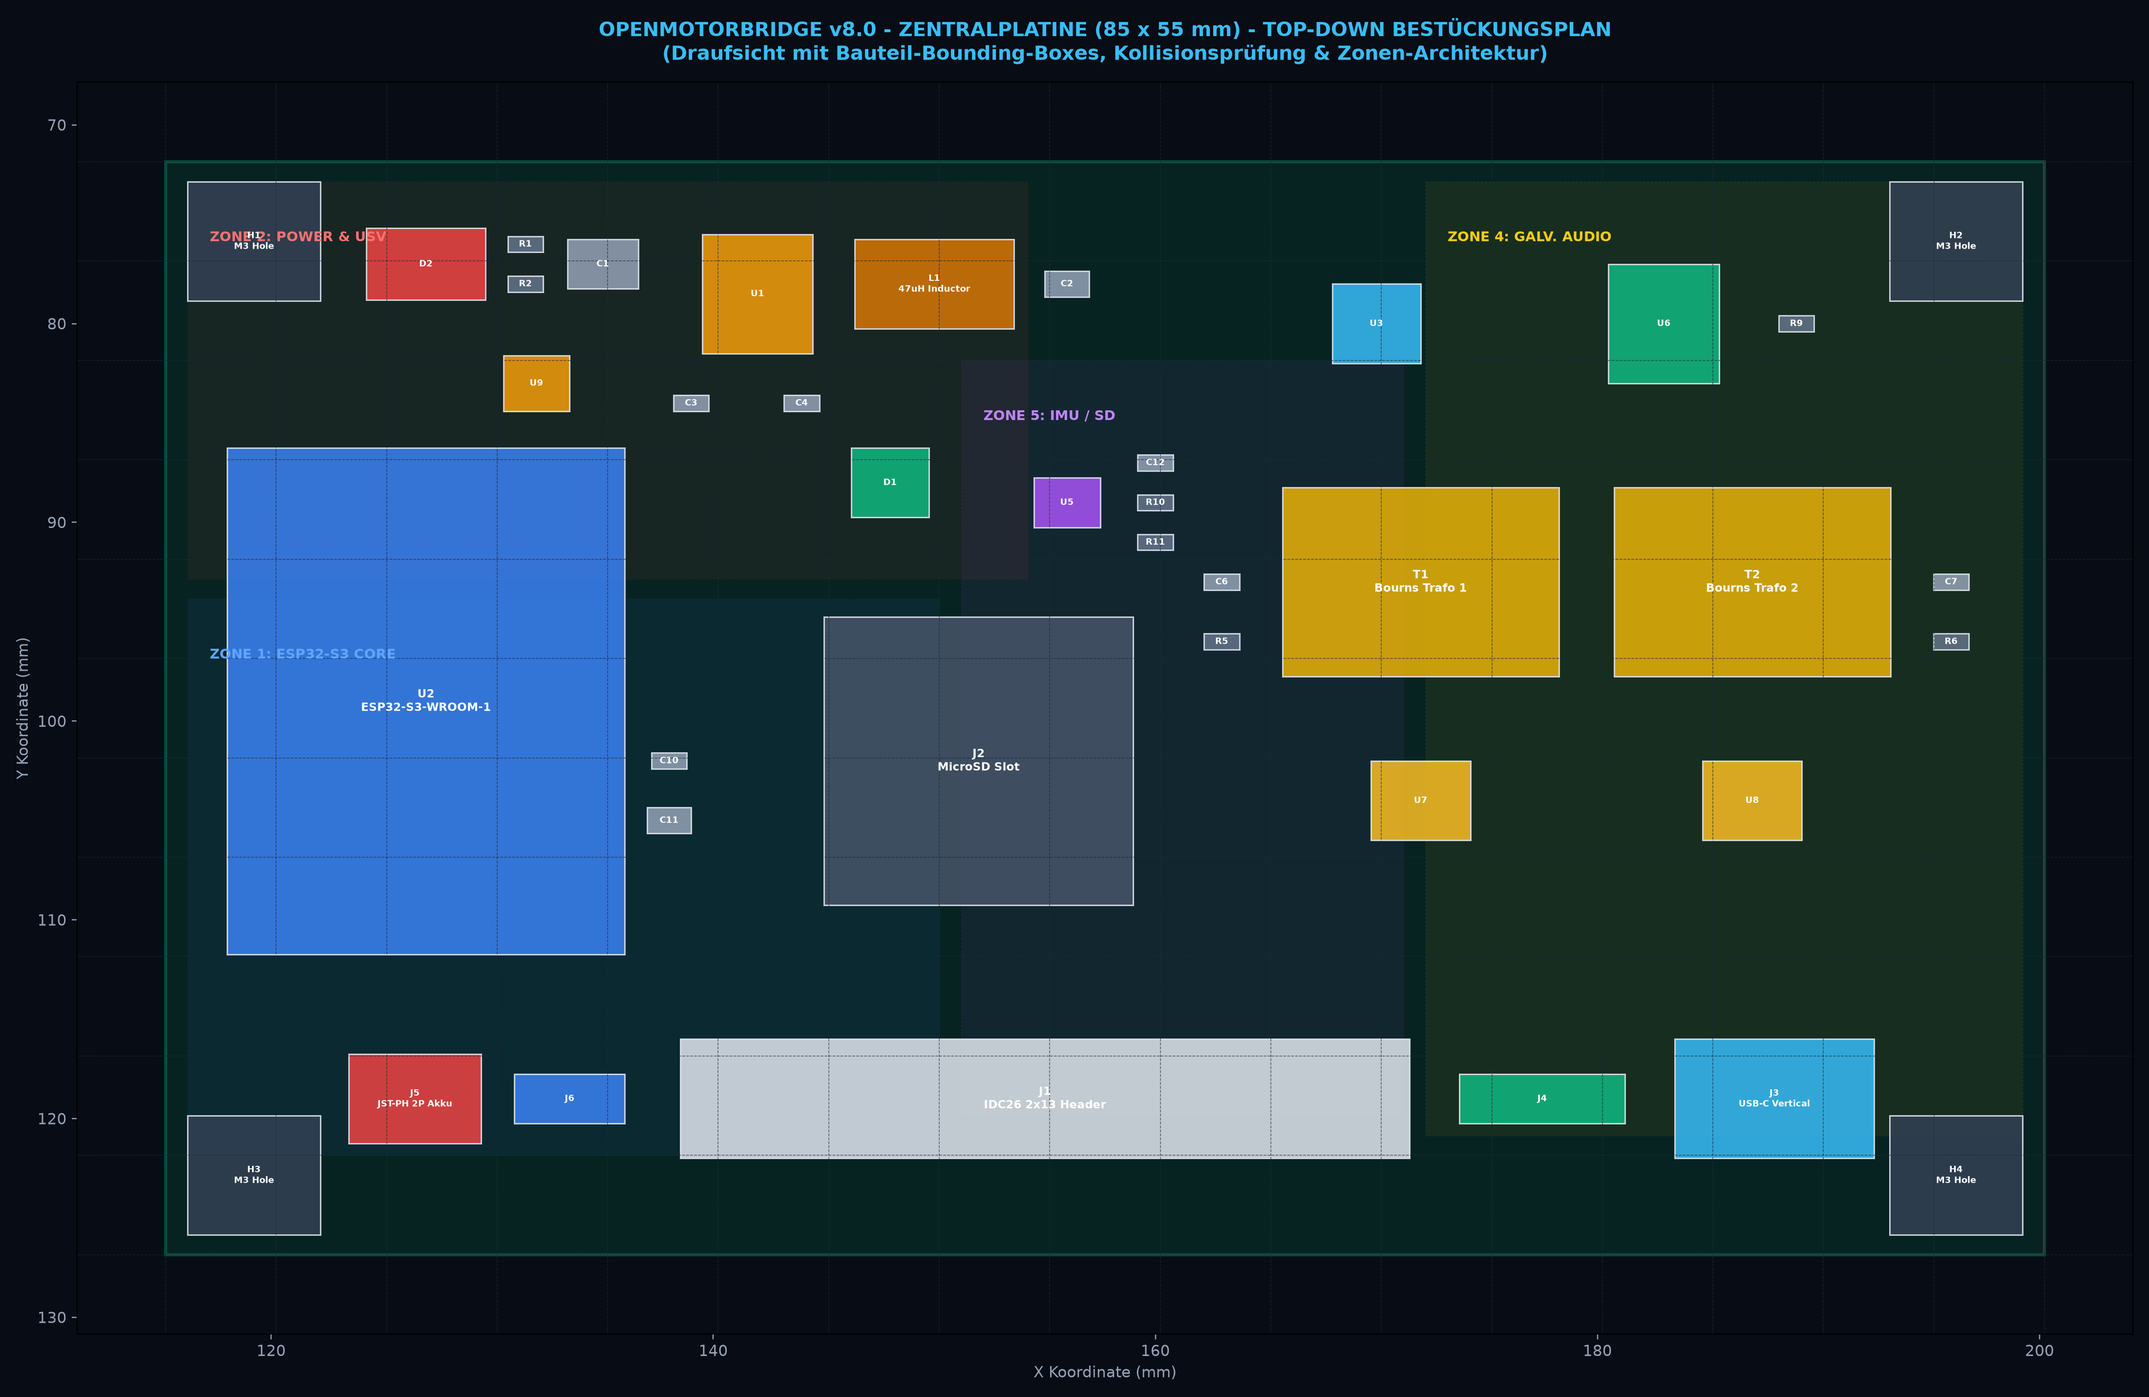
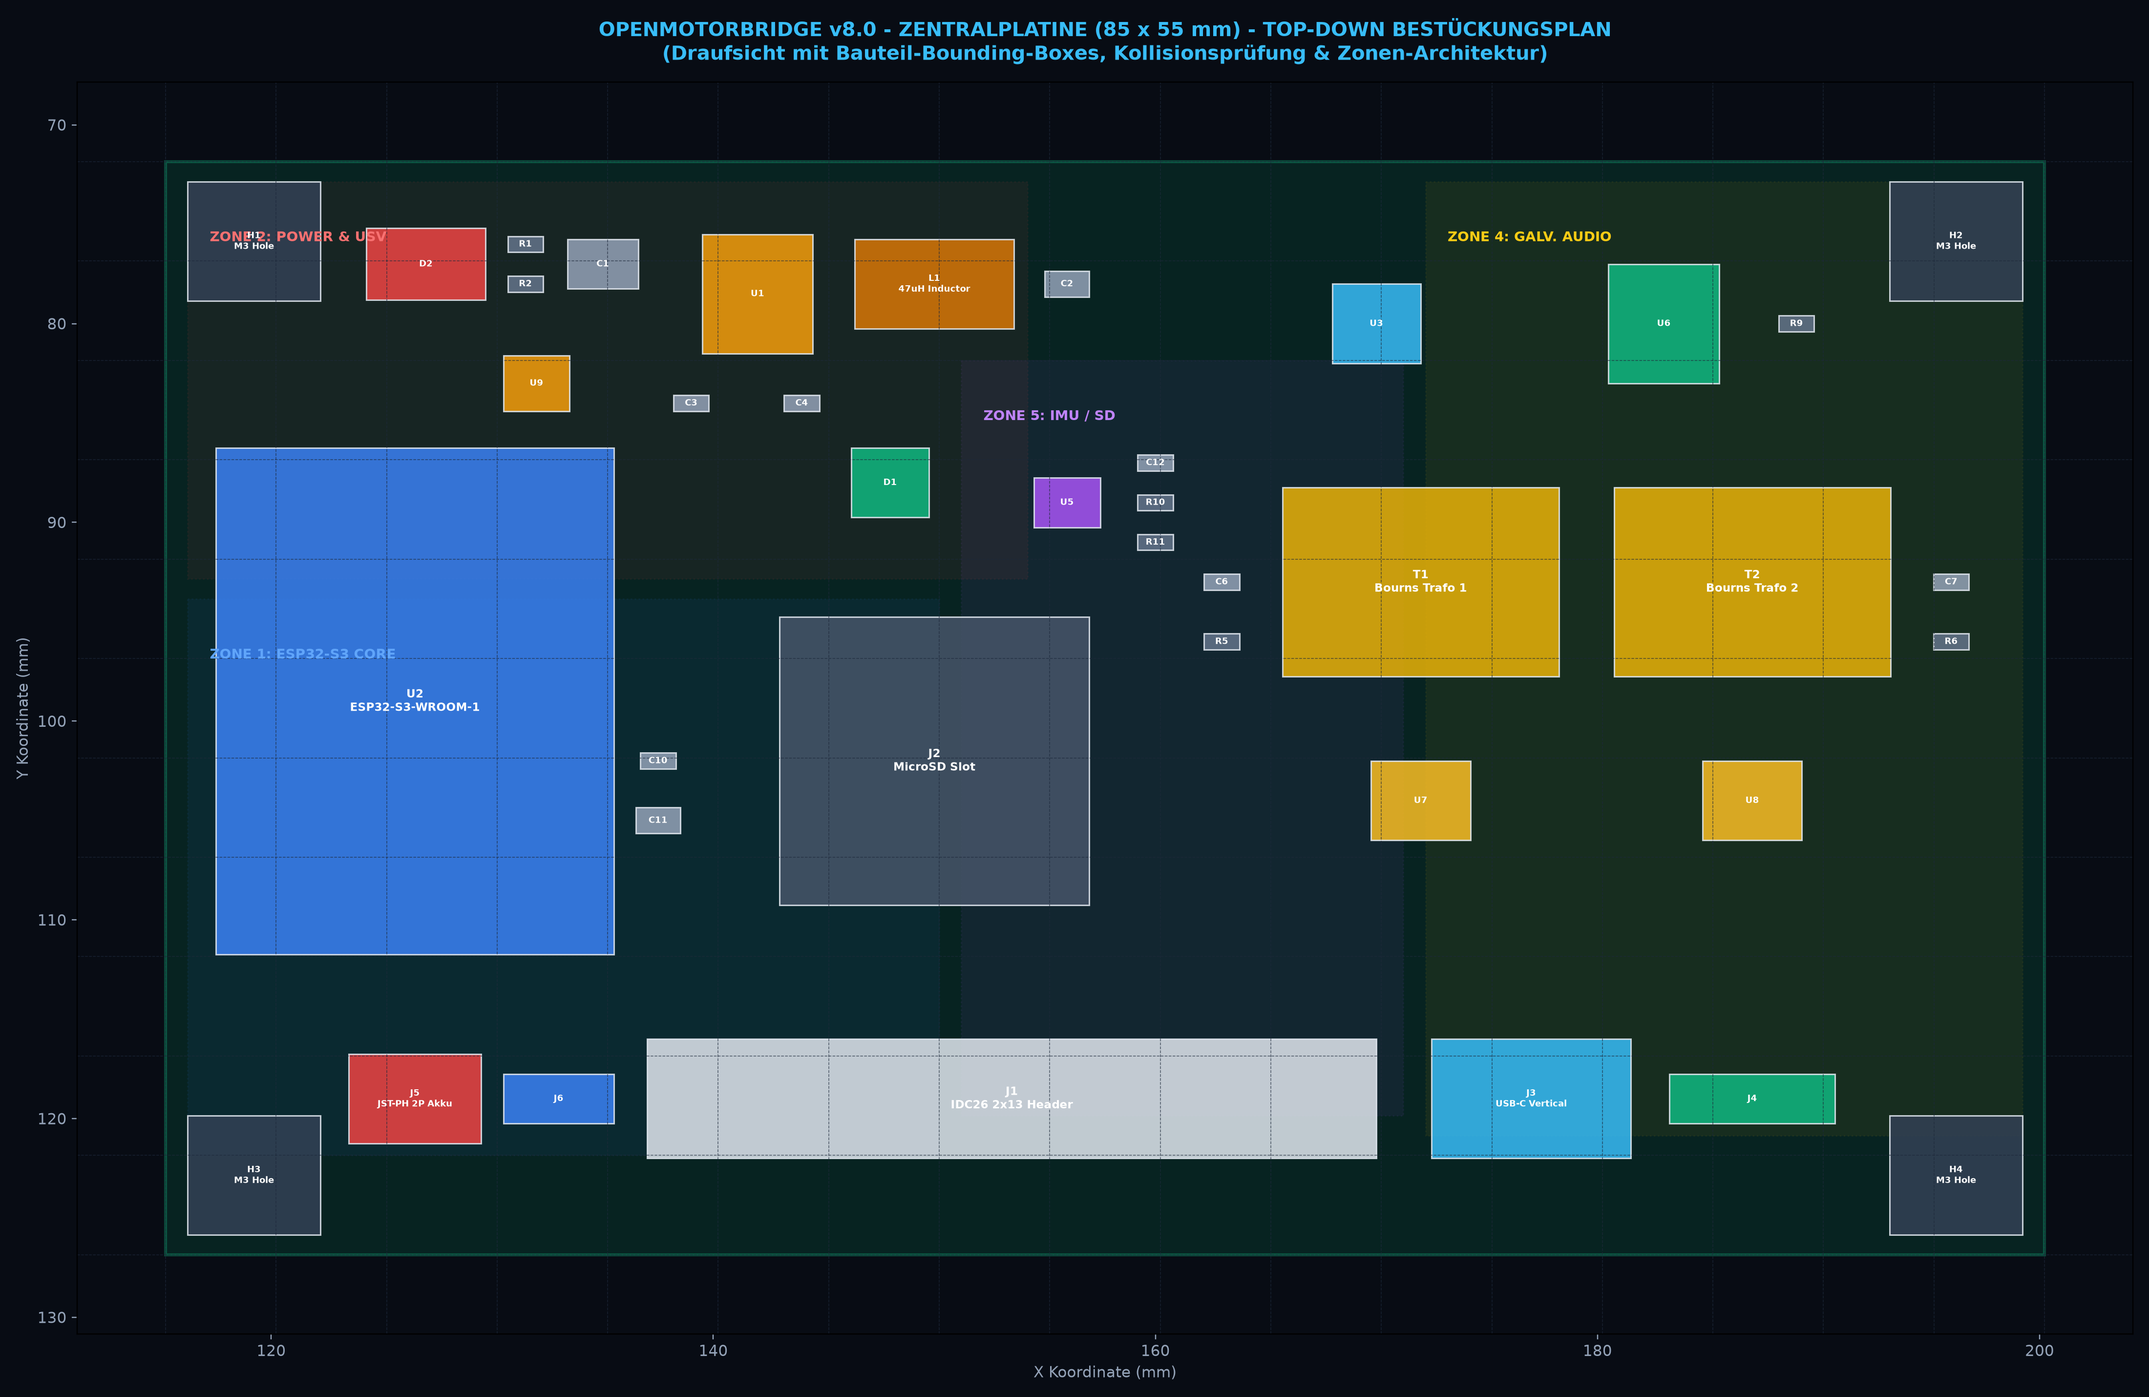
fix(pcb): align front connector rail ordering with enclosure ports (J1 -> J3 USB -> J4 LED)

diff --git a/hardware/scripts/generate_main_box_cad.py b/hardware/scripts/generate_main_box_cad.py
@@ -140,9 +140,9 @@ def render_main_box_cad(output_path):
     draw_cylinder(ax1, 20, -41, 6.5, 5.0, 3.0, color='#0284c7', alpha=0.95, axis='y')
     draw_cylinder(ax1, 20, -39, 6.5, 5.3, 0.8, color='#ef4444', alpha=0.95, axis='y')
     
-    # 3. PMMA RGB Status LED Window on Oberwanne (at X = 38, Y = -37, Z = 6.5)
-    draw_cylinder(ax1, 38, -37.5, 6.5, 2.5, 1.5, color='#10b981', alpha=0.95, axis='y')
-    draw_cylinder(ax1, 38, -38.5, 6.5, 1.8, 1.0, color='#34d399', alpha=0.95, axis='y')
+    # 3. PMMA RGB Status LED Window on Oberwanne (at X = 29.5, Y = -37, Z = 6.5) - Aligned with J4!
+    draw_cylinder(ax1, 29.5, -37.5, 6.5, 2.5, 1.5, color='#10b981', alpha=0.95, axis='y')
+    draw_cylinder(ax1, 29.5, -38.5, 6.5, 1.8, 1.0, color='#34d399', alpha=0.95, axis='y')
     
     # Top Lid Features:
     # 1. Gore ePTFE Pressure Equalization Vent (Ø 7.0 mm at center X = 0, Y = 0, Z = 18.5)
@@ -229,16 +229,16 @@ def render_main_box_cad(output_path):
     draw_box(ax2, 26, -7, -8.9, 6, 4, 2.0, color='#0f172a', alpha=0.95, edgecolor='#38bdf8', linewidth=0.5)
 
     # - Bottom Connector Rail (Y = -22 to -17):
-    # J5 (LiPo Akku 2P)
-    draw_box(ax2, -34, -22, -8.9, 6, 4, 5.0, color='#ef4444', alpha=0.95, edgecolor='#dc2626', linewidth=0.6)
-    # J6 (NTC 2P)
-    draw_box(ax2, -26, -22, -8.9, 5, 3, 5.0, color='#3b82f6', alpha=0.95, edgecolor='#2563eb', linewidth=0.6)
-    # J1 (IDC26 2x13 Box Header, X = -19 to +14)
-    draw_box(ax2, -19, -22, -8.9, 33, 6, 5.4, color='#0f172a', alpha=0.95, edgecolor='#fbbf24', linewidth=0.8)
-    # J4 (RGB LED 3P)
-    draw_box(ax2, 16, -22, -8.9, 7, 3, 5.0, color='#10b981', alpha=0.95, edgecolor='#059669', linewidth=0.6)
-    # J3 (USB-C Vertical)
-    draw_box(ax2, 26, -22, -8.9, 9, 6, 5.0, color='#38bdf8', alpha=0.95, edgecolor='#0284c7', linewidth=0.6)
+    # J5 (LiPo Akku 2P at X_CAD = -31.2)
+    draw_box(ax2, -34.2, -22, -8.9, 6, 4, 5.0, color='#ef4444', alpha=0.95, edgecolor='#dc2626', linewidth=0.6)
+    # J6 (NTC 2P at X_CAD = -24.7)
+    draw_box(ax2, -27.2, -22, -8.9, 5, 3, 5.0, color='#3b82f6', alpha=0.95, edgecolor='#2563eb', linewidth=0.6)
+    # J1 (26-Port IDC Header 2x13 at X_CAD = -4.2)
+    draw_box(ax2, -20.7, -22, -8.9, 33, 6, 5.4, color='#0f172a', alpha=0.95, edgecolor='#fbbf24', linewidth=0.8)
+    # J3 (USB-C Service Port at X_CAD = +19.3) - Directly under front USB-C!
+    draw_box(ax2, 14.8, -22, -8.9, 9, 6, 5.0, color='#38bdf8', alpha=0.95, edgecolor='#0284c7', linewidth=0.6)
+    # J4 (3-Port RGB LED Header at X_CAD = +29.3) - Directly behind front RGB LED!
+    draw_box(ax2, 25.5, -22, -8.9, 7.5, 3, 5.0, color='#10b981', alpha=0.95, edgecolor='#059669', linewidth=0.6)
 
     # 4x Vibration PCB Mounts
     for px, py in [(-38, -23), (-38, 23), (38, -23), (38, 23)]:
@@ -282,8 +282,8 @@ def render_main_box_cad(output_path):
     draw_box(ax2, -4, -3, 3.0, 6.0, 2.0, 5.5, color='#475569', alpha=0.95, edgecolor='#94a3b8', linewidth=0.6)
     draw_box(ax2, -4, 31, 3.0, 6.0, 2.0, 5.5, color='#475569', alpha=0.95, edgecolor='#94a3b8', linewidth=0.6)
 
-    # Front Panel LED in Oberwanne (at X = 38, Y = -37, Z = 6.5)
-    draw_cylinder(ax2, 38, -37.5, 6.5, 2.5, 1.5, color='#10b981', alpha=0.95, axis='y')
+    # Front Panel LED in Oberwanne (at X = 29.5, Y = -37, Z = 6.5)
+    draw_cylinder(ax2, 29.5, -37.5, 6.5, 2.5, 1.5, color='#10b981', alpha=0.95, axis='y')
 
     # ---------------------------------------------------------
     # LAYER 3: DECKEL (Z = +13 to +19 mm)
@@ -295,7 +295,7 @@ def render_main_box_cad(output_path):
     ax2.text(-3, -8, 11, "EPDM-Spannband", color='#38bdf8', fontsize=8, fontweight='bold')
     ax2.text(-26, -28, 2, "38x6 mm Flachband-Schlitz", color='#38bdf8', fontsize=9, fontweight='bold')
     ax2.text(-26, -38, -3, "26-Pin Flachbandkabel", color='#f43f5e', fontsize=8, fontweight='bold')
-    ax2.text(32, -38, 10, "RGB-LED (Front)", color='#34d399', fontsize=8, fontweight='bold')
+    ax2.text(26, -38, 10, "RGB-LED (Front)", color='#34d399', fontsize=8, fontweight='bold')
     ax2.text(-35, 18, 2, "Druckausgleichsschlitze", color='#94a3b8', fontsize=8, fontweight='bold')
     ax2.text(-38, -15, -4, "ESP32-S3 (nach unten)", color='#cbd5e1', fontsize=8, fontweight='bold')
     ax2.text(8, 0, -4, "Bourns & Optos (rechts/unten)", color='#fbbf24', fontsize=8, fontweight='bold')

diff --git a/hardware/scripts/autoplace_openmotorbridge.py b/hardware/scripts/autoplace_openmotorbridge.py
@@ -75,9 +75,9 @@ def auto_place_main_board(pcb_path):
         'H4': (X_max - 4.0, Y_max - 4.0, 0.0), # (196.22, 122.85) Bottom-Right
 
         # Zone 1: MCU & RF (Left Flank - Shifted down for generous power clearance)
-        'U2': (127.0, 99.0, 0.0),             # ESP32-S3-WROOM-1 MCU (18.0 x 25.5 mm)
-        'C10': (138.0, 102.0, 0.0),           # VDD Cap (0603)
-        'C11': (138.0, 105.0, 0.0),           # Bulk Cap (0805)
+        'U2': (126.5, 99.0, 0.0),             # ESP32-S3-WROOM-1 MCU (18.0 x 25.5 mm)
+        'C10': (137.5, 102.0, 0.0),           # VDD Cap (0603)
+        'C11': (137.5, 105.0, 0.0),           # Bulk Cap (0805)
 
         # Zone 2: Power & UPS (Top-Left Flank)
         'D2': (127.0, 77.0, 0.0),             # SMBJ33CA TVS Diode (5.4 x 3.6 mm)
@@ -97,7 +97,7 @@ def auto_place_main_board(pcb_path):
         'C12': (160.0, 87.0, 0.0),
         'R10': (160.0, 89.0, 0.0),
         'R11': (160.0, 91.0, 0.0),
-        'J2': (152.0, 102.0, 0.0),            # MicroSD Card Slot (14.0 x 14.5 mm)
+        'J2': (150.0, 102.0, 0.0),            # MicroSD Card Slot (14.0 x 14.5 mm)
 
         # Zone 4A: Audio Codec & CAN (Top-Right Flank)
         'U3': (170.0, 80.0, 0.0),             # Everest ES8388 Audio Codec (4.0 x 4.0 mm)
@@ -114,12 +114,12 @@ def auto_place_main_board(pcb_path):
         'U7': (172.0, 104.0, 0.0),            # Toshiba TLP222A PhotoMOS Optocoupler 1 (4.5 x 4.0 mm)
         'U8': (187.0, 104.0, 0.0),            # Toshiba TLP222A PhotoMOS Optocoupler 2 (4.5 x 4.0 mm)
 
-        # Zone 1: Bottom Connector Rail (All Vertical Top-Entry, 10mm plugging clearance)
+        # Zone 1: Front Connector Rail (Aligned with Oberwanne Front Panel: J5 -> J6 -> J1 -> J3 USB -> J4 LED)
         'J5': (126.5, 119.0, 0.0),            # LiPo Akku JST-PH 2-Pin (6.0 x 4.5 mm)
-        'J6': (133.5, 119.0, 0.0),            # NTC JEITA Sensor 2-Pin (5.0 x 2.5 mm)
-        'J1': (155.0, 119.0, 90.0),           # 2x13 IDC Box Header (33.0 x 6.0 mm)
-        'J4': (177.5, 119.0, 0.0),            # 3-Pin RGB LED Header (7.5 x 2.5 mm)
-        'J3': (188.0, 119.0, 0.0),            # Vertical USB-C Port (9.0 x 6.0 mm)
+        'J6': (133.0, 119.0, 0.0),            # NTC JEITA Sensor 2-Pin (5.0 x 2.5 mm)
+        'J1': (153.5, 119.0, 90.0),           # 26-Port IDC Header 2x13 (33.0 x 6.0 mm) - HD26 Ribbon
+        'J3': (177.0, 119.0, 0.0),            # USB-C Service Port (9.0 x 6.0 mm) - Aligned with Front USB
+        'J4': (187.0, 119.0, 0.0),            # 3-Port RGB LED Header (7.5 x 2.5 mm) - Aligned with Front LED
     }
 
     existing_refs = {fp.GetReference(): fp for fp in board.Footprints()}

diff --git a/docs/de/02_pcb_hardware_pinout.md b/docs/de/02_pcb_hardware_pinout.md
@@ -58,10 +58,7 @@ Die Hauptplatine vereint auf kompakten **$85{,}0 \times 55{,}0\,\text{mm}$** die
 Um gegenseitige Störungen zwischen der Schaltnetzteil-HF ($2{,}1\,\text{MHz}$), dem 2,4-GHz-Bluetooth-Funk und den hochempfindlichen analogen Audioleitungen vollständig zu eliminieren, ist die Platine in **5 strikt voneinander getrennte Funktionszonen** unterteilt:
 
 ```
-┌────────────────────────────────────────────────────────────────────────┐
-│ ZONE 1: STECKERLEISTE & BARRIEREFREIER 10-MM-STECKKORRIDOR (OBEN)      │
-│ [ J4: BAT ]   [ J1: 2x13 IDC26 WANNENSTECKER ]   [ J2: SD ]  [ J3: LED]│
-├───────────────────┬──────────────────────────┬─────────────────────────┤
+┌───────────────────┬──────────────────────────┬─────────────────────────┐
 │ ZONE 2: POWER &   │ ZONE 5: SENSORIK & IMU   │ ZONE 4A: AUDIO CODEC    │
 │ AUTOMOTIVE USV    │ • Bosch BMI270 6-Achsen  │ • Everest ES8388 Codec  │
 │ • PPTC 500mA      │ • MicroSD Ringspeicher   │ • TI TCAN334G CAN-FD    │
@@ -69,16 +66,20 @@ Um gegenseitige Störungen zwischen der Schaltnetzteil-HF ($2{,}1\,\text{MHz}$),
 │ • TI LM5164 Buck  │ ZONE 3: DIGITAL CORE     │ ZONE 4B: GALV. ISOLATION│
 │ • TI BQ24075 USV  │ • ESP32-S3 Dual-Core     │ • 2x Bourns Übertrager  │
 │ • LC-PI-Filter    │   (Nach unten versetzt)  │ • 2x TLP222A PhotoMOS   │
-│                   │ • 2.4 GHz PCB-Antenne    │   (Rechtsflanke über J1)│
-└───────────────────┴──────────────────────────┴─────────────────────────┘
+│                   │ • 2.4 GHz PCB-Antenne    │   (Rechtsflanke)        │
+├───────────────────┴──────────────────────────┴─────────────────────────┤
+│ ZONE 1: STECKERLEISTE & BARRIEREFREIER 10-MM-STECKKORRIDOR (FRONT/UNTEN│
+│ [J5: BAT]  [J6: NTC]   [J1: 26-POL IDC26]   [J3: USB-C]   [J4: 3P LED] │
+└────────────────────────────────────────────────────────────────────────┘
 ```
 
-1. **Zone 1 (Obere Kante – Steckverbinder-Reihe & 10-mm-Korridor):**
-   * Alle Gehäuseschnittstellen sind in einer **einheitlichen horizontalen Reihe** angeordnet:
-     * `J4`: 2-Pin JST-PH LiPo-Akkubuchse (Raster $2{,}0\,\text{mm}$)
-     * `J1`: 2x13 Pin IDC26 Wannenstecker mit Verriegelungsnasen (Raster $2{,}54\,\text{mm}$)
-     * `J2`: MicroSD-Kartenhalter (Push-Push SMD)
-     * `J3`: 3-Pin JST-XH RGB-LED-Anschluss (Raster $2{,}54\,\text{mm}$)
+1. **Zone 1 (Vorderkante – Steckverbinder-Reihe & 10-mm-Korridor):**
+   * Exakt auf die Gehäusefront der Oberwanne ausgerichtete Stecker-Reihenfolge:
+     * `J5`: 2-Pin JST-PH LiPo-Akkubuchse (Raster $2{,}0\,\text{mm}$)
+     * `J6`: 2-Pin Micro-Header für NTC-Temperatursensor
+     * `J1`: 2x13 Pin IDC26 Wannenstecker ($33\,\text{mm}$) – Direkt unter dem HD26-Flansch / Flachbandkabel-Schlitz
+     * `J3`: Vertikale USB-C Service-Buchse – Direkt hinter der frontseitigen USB-C Dichtkappe
+     * `J4`: 3-Pin RGB-LED-Anschluss (Raster $2{,}54\,\text{mm}$) – Direkt hinter dem PMMA-Status-Sichtfenster
    * **10-mm-Einführkorridor:** Unterhalb und um die Stecker herum gilt ein absolutes Bauteil-Sperrgebiet (Keep-Out) für Elkos und hohe Komponenten. Flachbandkabel und Finger können ohne Kollisionsgefahr bequem ein- und ausgesteckt werden.
 2. **Zone 2 (Linke Flanke oben – Automotive Power & USV):**
    * Nimmt die raue Bordnetzspannung von KL30/KL15 auf. Enthält die Bourns PPTC-Sicherung, die SMBJ33CA TVS-Diode, den Verpolschutz-MOSFET, das $10\,\mu\text{H}$ PI-Filter sowie den TI LM5164-Q1 Step-Down-Regler und das BQ24075 USV-Lademanagement.

diff --git a/docs/en/02_pcb_hardware_pinout.md b/docs/en/02_pcb_hardware_pinout.md
@@ -58,10 +58,7 @@ The central box mainboard integrates the full automotive power supply, uninterru
 To completely eliminate coupling between switching power supply harmonics ($2.1\,\text{MHz}$), 2.4 GHz Bluetooth RF, and sensitive analog audio lines, the board is segmented into **5 strictly isolated functional zones**:
 
 ```
-┌────────────────────────────────────────────────────────────────────────┐
-│ ZONE 1: CONNECTOR RAIL & 10-MM PLUGGING CORRIDOR (TOP)                 │
-│ [ J4: BAT ]   [ J1: 2x13 IDC26 BOX HEADER ]       [ J2: SD ]  [ J3: LED]│
-├───────────────────┬──────────────────────────┬─────────────────────────┤
+┌───────────────────┬──────────────────────────┬─────────────────────────┐
 │ ZONE 2: POWER &   │ ZONE 5: SENSORS & IMU    │ ZONE 4A: AUDIO CODEC    │
 │ AUTOMOTIVE UPS    │ • Bosch BMI270 6-Axis    │ • Everest ES8388 Codec  │
 │ • PPTC 500mA      │ • MicroSD Ring Storage   │ • TI TCAN334G CAN-FD    │
@@ -69,16 +66,20 @@ To completely eliminate coupling between switching power supply harmonics ($2.1\
 │ • TI LM5164 Buck  │ ZONE 3: DIGITAL CORE     │ ZONE 4B: GALV. ISOLATION│
 │ • TI BQ24075 UPS  │ • ESP32-S3 Dual-Core     │ • 2x Bourns Transformers│
 │ • LC-PI-Filter    │   (Shifted Downward)     │ • 2x TLP222A PhotoMOS   │
-│                   │ • 2.4 GHz PCB Antenna    │   (Right Flank over J1) │
-└───────────────────┴──────────────────────────┴─────────────────────────┘
+│                   │ • 2.4 GHz PCB Antenna    │   (Right Flank)         │
+├───────────────────┴──────────────────────────┴─────────────────────────┤
+│ ZONE 1: CONNECTOR RAIL & 10-MM PLUGGING CORRIDOR (FRONT/BOTTOM)        │
+│ [J5: BAT]  [J6: NTC]   [J1: 26-PIN IDC26]   [J3: USB-C]   [J4: 3P LED] │
+└────────────────────────────────────────────────────────────────────────┘
 ```
 
-1. **Zone 1 (Top Edge – Connector Row & 10-mm Corridor):**
-   * Uniform horizontal connector placement:
-     * `J4`: 2-Pin JST-PH LiPo battery socket ($2.0\,\text{mm}$ pitch)
-     * `J1`: 2x13 Pin IDC26 box header with locking ramps ($2.54\,\text{mm}$ pitch)
-     * `J2`: MicroSD push-push SMD socket
-     * `J3`: 3-Pin JST-XH RGB LED header ($2.54\,\text{mm}$ pitch)
+1. **Zone 1 (Front Edge – Connector Row & 10-mm Corridor):**
+   * Geometrically aligned with the Oberwanne front panel ports:
+     * `J5`: 2-Pin JST-PH LiPo battery socket ($2.0\,\text{mm}$ pitch)
+     * `J6`: 2-Pin micro header for battery NTC temperature sensor
+     * `J1`: 2x13 Pin IDC26 box header ($33\,\text{mm}$) – Directly beneath the HD26 flange & ribbon slot
+     * `J3`: Vertical USB-C service socket – Directly behind front panel waterproof USB-C cap
+     * `J4`: 3-Pin RGB LED header ($2.54\,\text{mm}$ pitch) – Directly behind front PMMA status window
    * **10-mm Insertion Keep-Out:** Clean clearance zone ensuring ribbon cables and fingers can mate without component interference.
 2. **Zone 2 (Left Flank Top – Automotive Power & UPS):**
    * Accepts raw motorcycle electrical voltages (KL30/KL15). Contains the Bourns PPTC fuse, SMBJ33CA TVS diode, reverse-polarity MOSFET, $10\,\mu\text{H}$ PI filter, TI LM5164-Q1 synchronous buck converter, and TI BQ24075 UPS battery management.
